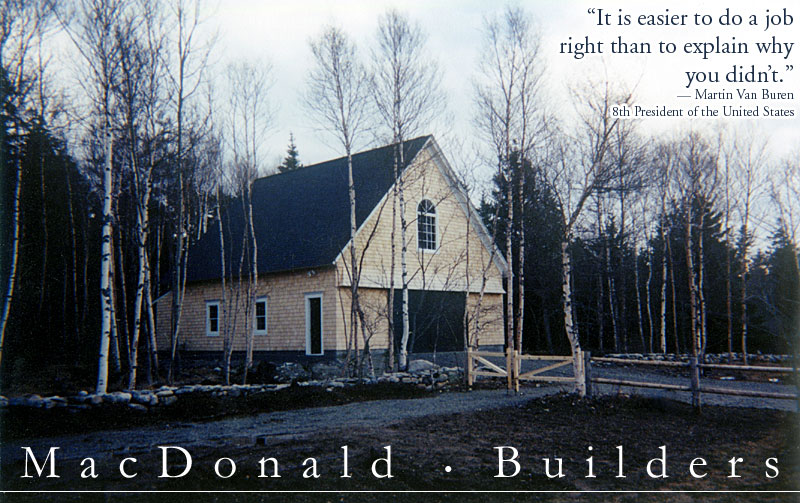
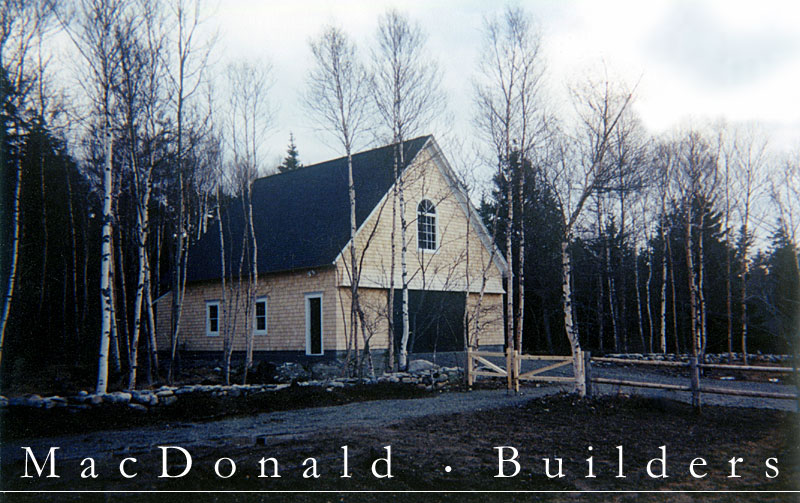
remove van buren from homepage image

Changed region(s): [[0.6875, 0.0298, 1.0, 0.2684]]

diff --git a/bmacdonaldbuilders/new/index.htm b/bmacdonaldbuilders/new/index.htm
@@ -23,7 +23,7 @@
 		<td>
 		<p align="center">
 		<a target="_top" href="new-gallery.htm">
-		<IMG name="SLIDESIMG" src="house001.jpg" style="filter:progid:DXImageTransform.Microsoft.Fade()" alt="Slideshow image" border="0" width="800" height="502"></a></a>
+		<IMG name="SLIDESIMG" src="house021.jpg" style="filter:progid:DXImageTransform.Microsoft.Fade()" alt="Slideshow image" border="0" width="800" height="502"></a></a>
 												<SCRIPT type="text/javascript" src="slideshow.js"></SCRIPT>
 <SCRIPT type="text/javascript">
 <!--
